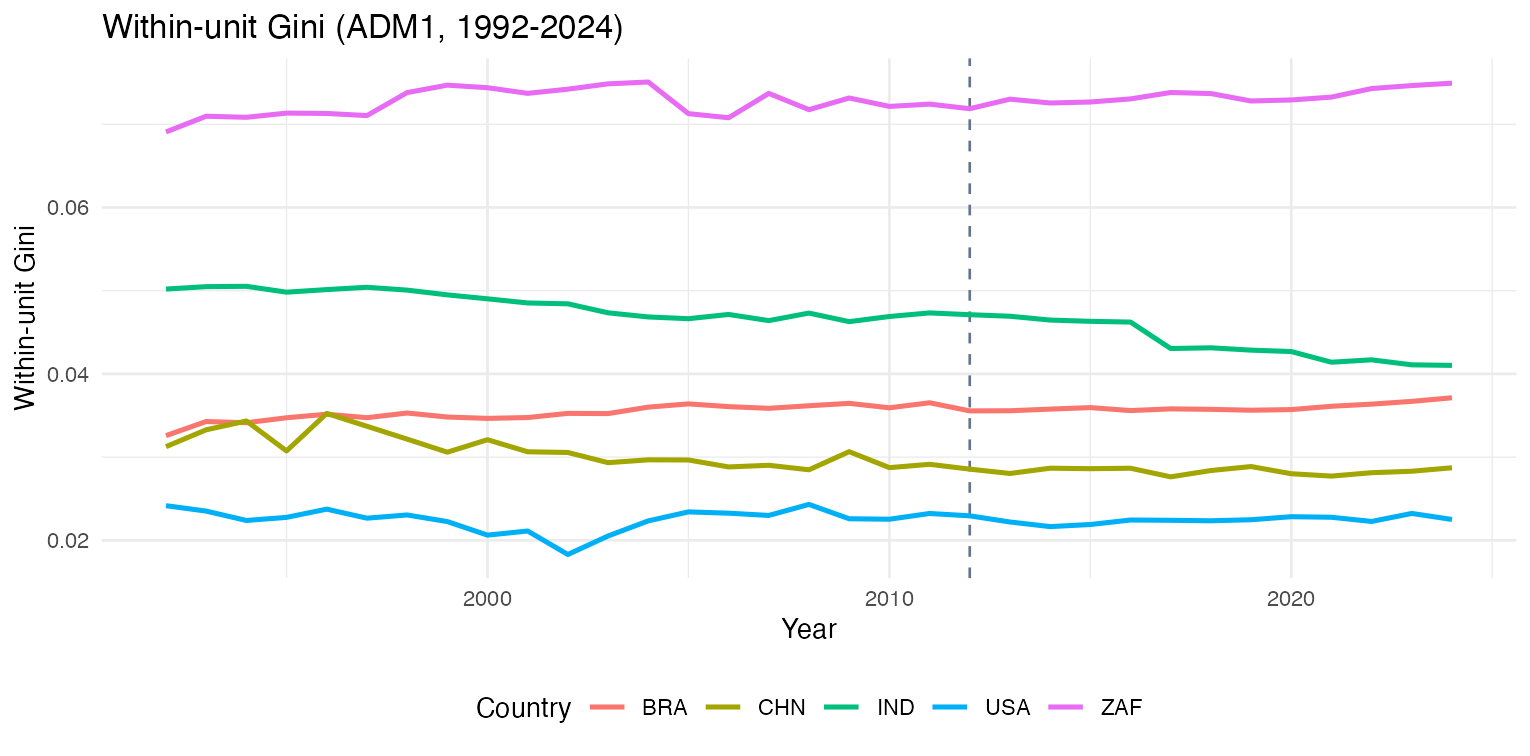
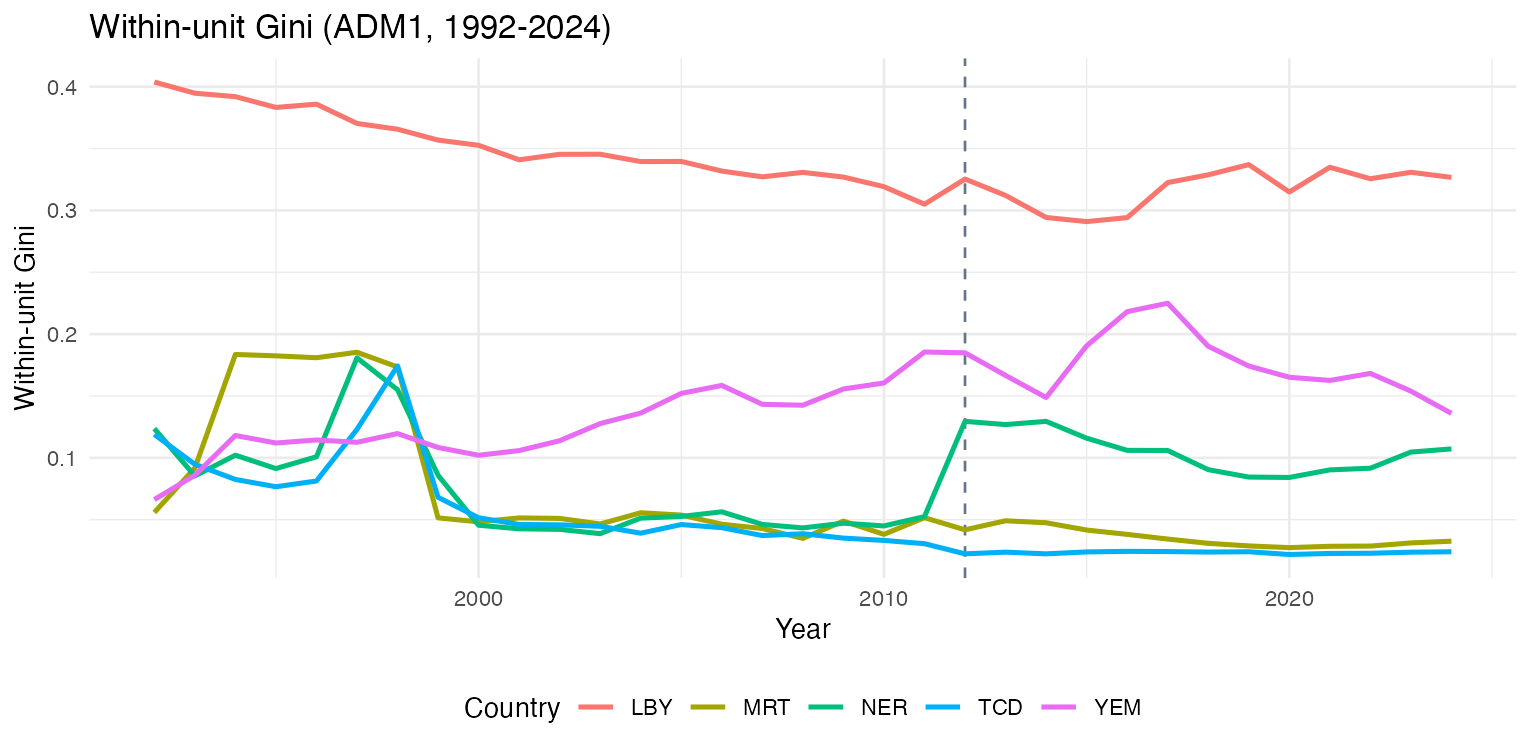
Update README within-unit Gini plot to high-variation countries

diff --git a/README.md b/README.md
@@ -98,13 +98,13 @@ ntl_gini_top_units(level = "adm3", iso3 = "TUN", year = 2024, n = 10)
 # Between-unit Gini at ADM_3 across Egypt, Iraq, Syria, and Tunisia (1992-2024)
 ntl_gini_plot_series(c("EGY", "IRQ", "SYR", "TUN"), level = "adm3", metric = "between_gini")
 
-# Within-unit Gini at ADM_1 across Brazil, China, India, USA, and South Africa (1992-2024)
-ntl_gini_plot_series(c("USA", "CHN", "BRA", "IND", "ZAF"), level = "adm1", metric = "within_gini")
+# Within-unit Gini at ADM_1 across Libya, Mauritania, Niger, Chad, and Yemen (1992-2024)
+ntl_gini_plot_series(c("YEM", "LBY", "MRT", "TCD", "NER"), level = "adm1", metric = "within_gini")
 ```
 
 ![Between-unit Gini at ADM3 across Egypt, Iraq, Syria, and Tunisia](man/figures/between_adm3_comparison.png)
 
-![Within-unit Gini at ADM1 across Brazil, China, India, USA, and South Africa](man/figures/within_adm1_global.png)
+![Within-unit Gini at ADM1 across Libya, Mauritania, Niger, Chad, and Yemen](man/figures/within_adm1_global.png)
 
 ---
 
